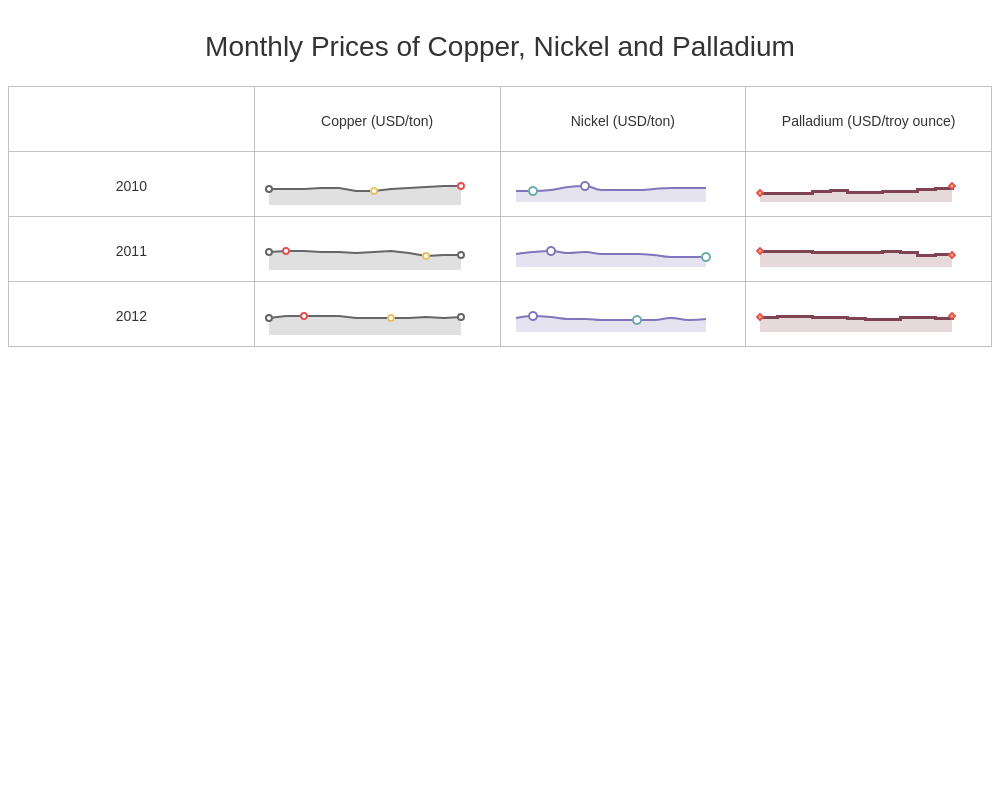
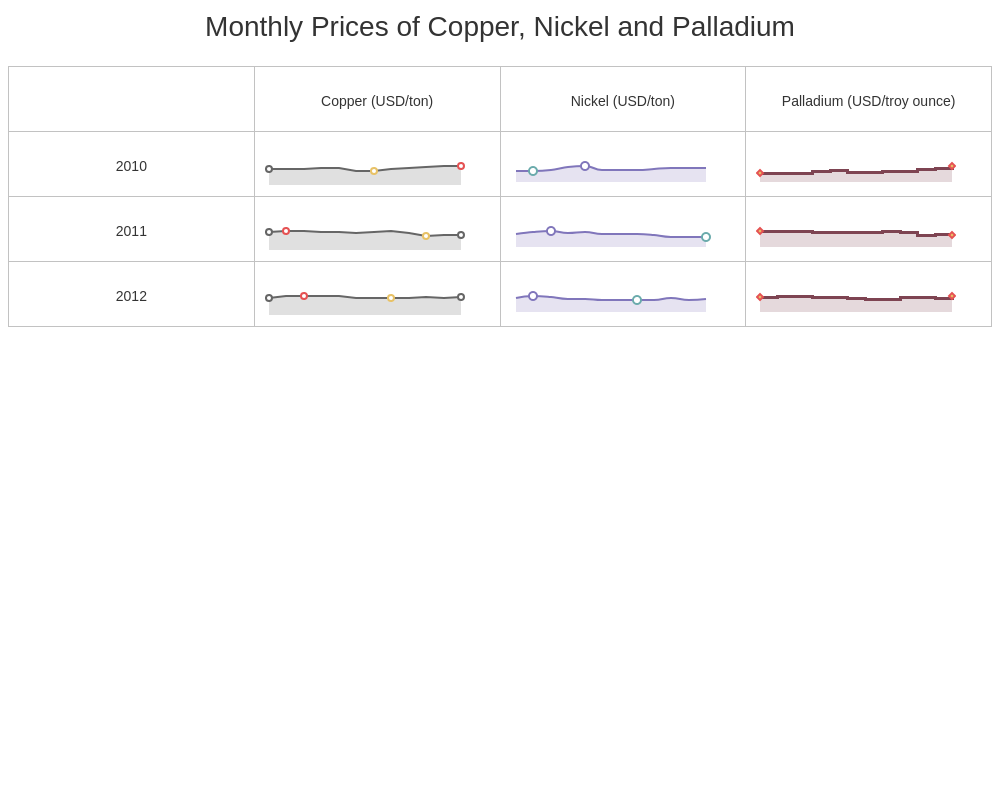
add margin-top: 0px property to charts-areasparklnes demos

diff --git a/JSDemos/Demos/Charts/AreaSparklines/Vue/App.vue b/JSDemos/Demos/Charts/AreaSparklines/Vue/App.vue
@@ -63,5 +63,6 @@ export default {
     font-size: 28px;
     text-align: center;
     margin-bottom: 20px;
+    margin-top: 0px;
 }
 </style>

diff --git a/JSDemos/Demos/Charts/AreaSparklines/Angular/app/app.component.css b/JSDemos/Demos/Charts/AreaSparklines/Angular/app/app.component.css
@@ -34,4 +34,5 @@
     font-size: 28px;
     text-align: center;
     margin-bottom: 20px;
+    margin-top: 0px;
 }

diff --git a/JSDemos/Demos/Charts/AreaSparklines/AngularJS/styles.css b/JSDemos/Demos/Charts/AreaSparklines/AngularJS/styles.css
@@ -40,4 +40,5 @@
     font-size: 28px;
     text-align: center;
     margin-bottom: 20px;
+    margin-top: 0px;
 }

diff --git a/JSDemos/Demos/Charts/AreaSparklines/React/styles.css b/JSDemos/Demos/Charts/AreaSparklines/React/styles.css
@@ -39,4 +39,5 @@
     font-size: 28px;
     text-align: center;
     margin-bottom: 20px;
+    margin-top: 0px;
 }

diff --git a/JSDemos/Demos/Charts/AreaSparklines/jQuery/styles.css b/JSDemos/Demos/Charts/AreaSparklines/jQuery/styles.css
@@ -40,4 +40,5 @@
     font-size: 28px;
     text-align: center;
     margin-bottom: 20px;
+    margin-top: 0px;
 }

diff --git a/MVCDemos/Content/DemosStyles/Charts/AreaSparklines.css b/MVCDemos/Content/DemosStyles/Charts/AreaSparklines.css
@@ -40,4 +40,5 @@
     font-size: 28px;
     text-align: center;
     margin-bottom: 20px;
+    margin-top: 0px;
 }

diff --git a/NetCoreDemos/wwwroot/css/DemosStyles/Charts/AreaSparklines.css b/NetCoreDemos/wwwroot/css/DemosStyles/Charts/AreaSparklines.css
@@ -40,4 +40,5 @@
     font-size: 28px;
     text-align: center;
     margin-bottom: 20px;
+    margin-top: 0px;
 }
